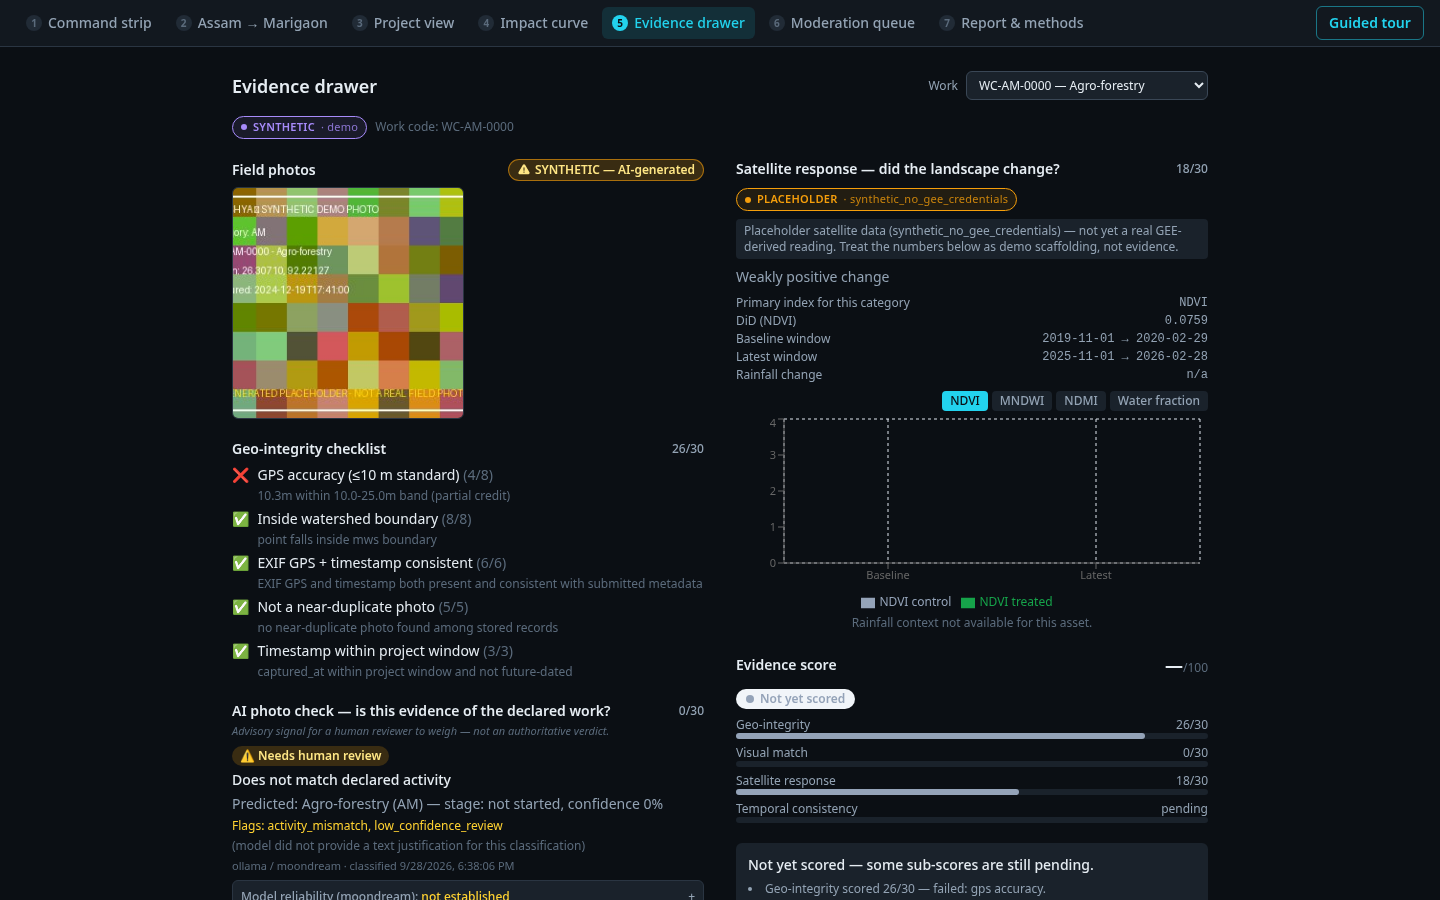
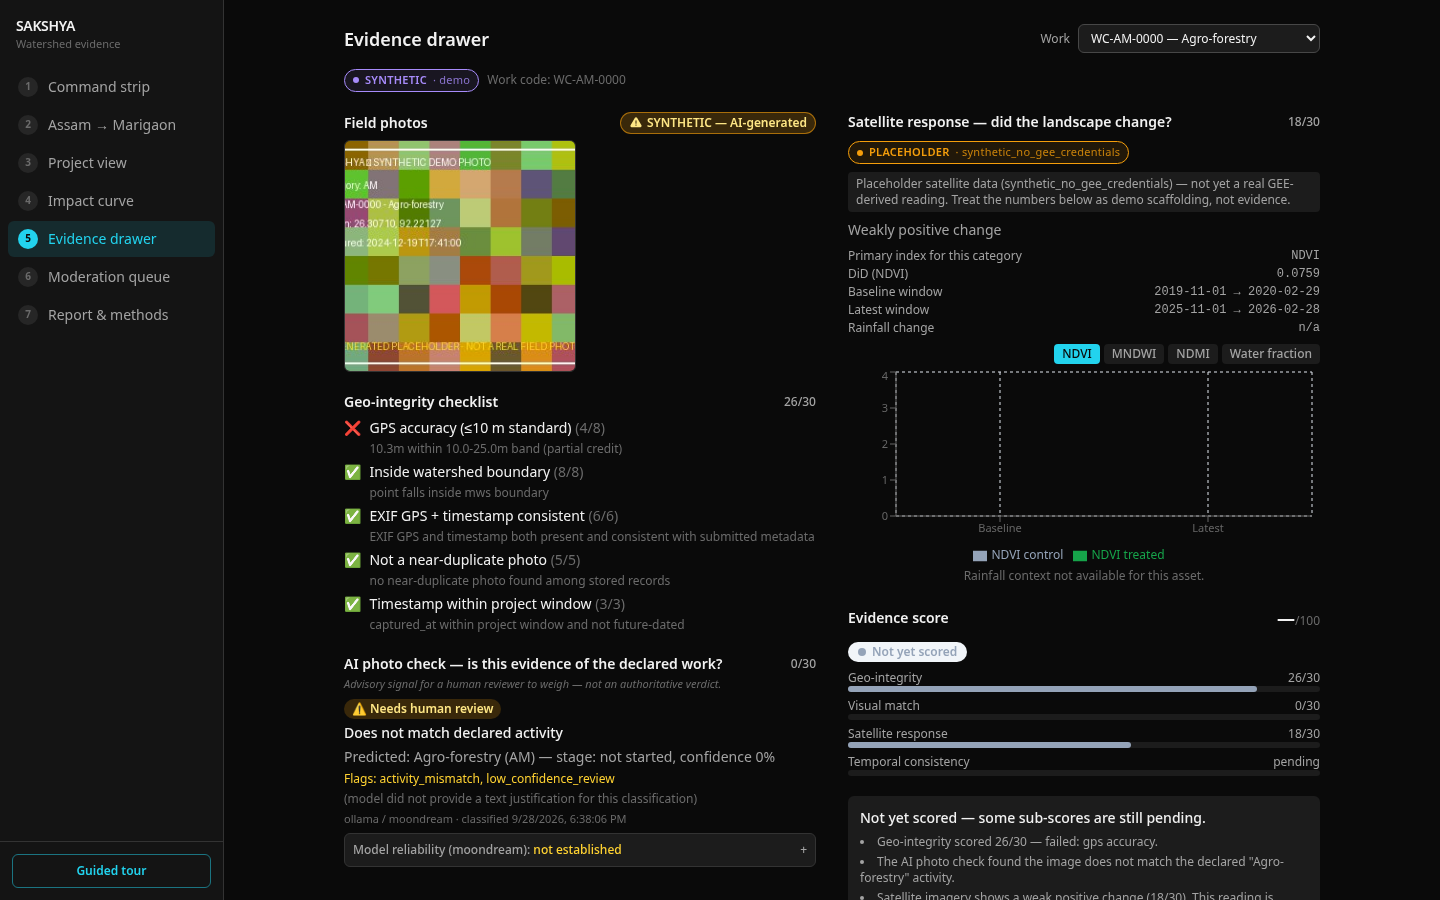
fix(web): neutral dark palette + left sidebar nav (was top strip)
Two more rounds of real human feedback, both verified against the actual
hex values rather than taken on faith:

1. Background/surface colour had an accidental blue lean at every step
   (--bg #0b0f14 = R11/G15/B20, B nearly double R; same pattern in
   --surface/-2/-3 and the text tokens) — flagged three times before being
   fixed here. Replaced the whole neutral scale in index.css with true
   greys (R=G=B at every step: --bg #0a0a0a through --border-strong
   #474747, --text #f2f2f2 through --text-faint #6b6b6b). The cyan accent
   is untouched and is now more clearly the one deliberate colour against
   genuinely neutral scaffolding, not competing with a second accidental
   hue. Grepped for hardcoded references to the old hex values first — all
   of them were only in this one token block, so a single edit fixes every
   component that reads var(--bg) etc.

2. Replaced the top horizontal BeatNav strip with a left rail sidebar
   (new Sidebar.tsx, Hotstar/Disney+-style: fixed 224px column, numbered
   items stacked vertically, current beat picked out with the accent).
   Fixed width rather than a hover-to-expand icon rail — beats 2/3 are
   full-bleed maps that need the horizontal space, and a fixed width is
   more reliable for an automated/demo screenshot than a hover state.
   Guided tour button moved to the bottom of the sidebar, pinned.
   App.tsx's root layout changed from flex-col (nav above, content below)
[…]

diff --git a/web/src/components/shell/Sidebar.tsx b/web/src/components/shell/Sidebar.tsx
@@ -1,0 +1,69 @@
+import { BEATS } from './beats'
+
+/**
+ * Left rail navigation, replacing the old top horizontal `BeatNav` strip —
+ * the human referenced the Hotstar/Disney+ pattern: a fixed-width column,
+ * items stacked vertically, current item picked out with the accent
+ * colour. Fixed at a narrow 224px rather than a wide rail or a
+ * hover-to-expand icon state — beats 2 and 3 are full-bleed maps that need
+ * the horizontal space, so the tradeoff is resolved in the map's favour: a
+ * width that comfortably fits "icon + label" on one line and nothing more.
+ */
+export function Sidebar({
+  active,
+  onSelect,
+  onStartTour,
+}: {
+  active: number
+  onSelect: (id: number) => void
+  onStartTour: () => void
+}) {
+  return (
+    <nav
+      aria-label="Dashboard beats"
+      className="no-print flex h-full w-56 shrink-0 flex-col border-r border-(--border) bg-(--surface)"
+    >
+      <div className="px-4 py-4">
+        <p className="text-sm font-semibold tracking-tight text-(--text)">SAKSHYA</p>
+        <p className="text-[11px] text-(--text-faint)">Watershed evidence</p>
+      </div>
+
+      <ol className="flex-1 space-y-0.5 overflow-y-auto px-2">
+        {BEATS.map((beat) => {
+          const isActive = active === beat.id
+          return (
+            <li key={beat.id}>
+              <button
+                type="button"
+                onClick={() => onSelect(beat.id)}
+                aria-current={isActive ? 'step' : undefined}
+                className={`flex w-full items-center gap-2.5 rounded-md px-2.5 py-2 text-left text-sm transition-colors ${
+                  isActive ? 'bg-(--accent-bg) text-(--accent)' : 'text-(--text-muted) hover:bg-(--surface-2) hover:text-(--text)'
+                }`}
+              >
+                <span
+                  className={`flex h-5 w-5 shrink-0 items-center justify-center rounded-full text-[10px] font-bold ${
+                    isActive ? 'bg-(--accent) text-(--bg)' : 'bg-(--surface-3) text-(--text-faint)'
+                  }`}
+                >
+                  {beat.id}
+                </span>
+                <span className="truncate">{beat.title}</span>
+              </button>
+            </li>
+          )
+        })}
+      </ol>
+
+      <div className="border-t border-(--border) p-3">
+        <button
+          type="button"
+          onClick={onStartTour}
+          className="flex w-full items-center justify-center gap-1.5 rounded-md border border-(--accent)/50 px-3 py-2 text-xs font-semibold text-(--accent) hover:bg-(--accent-bg)"
+        >
+          Guided tour
+        </button>
+      </div>
+    </nav>
+  )
+}

diff --git a/web/src/App.tsx b/web/src/App.tsx
@@ -8,8 +8,8 @@ import { DistrictChoropleth } from '@/components/choropleth/DistrictChoropleth'
 import { ErrorState } from '@/components/layout/ErrorState'
 import { LoadingState } from '@/components/layout/LoadingState'
 import { WatershedMap } from '@/components/map/WatershedMap'
-import { BeatNav } from '@/components/shell/BeatNav'
 import { GuidedTour } from '@/components/shell/GuidedTour'
+import { Sidebar } from '@/components/shell/Sidebar'
 import { CONFIGURED_MWS_ID } from '@/config'
 import { useMwsList } from '@/hooks/useMwsList'
 import { MapUiProvider } from '@/state/mapUiStore'
@@ -71,16 +71,18 @@ function App() {
   const isMapBeat = activeBeat === 2 || activeBeat === 3
 
   return (
-    <div className="flex h-screen flex-col bg-(--bg) text-(--text)">
-      <BeatNav active={activeBeat} onSelect={setActiveBeat} onStartTour={() => setTourOpen(true)} />
-      <main className={`min-h-0 flex-1 ${isMapBeat ? '' : 'overflow-y-auto'}`}>{body}</main>
-      {tourOpen && (
-        <GuidedTour
-          activeBeat={activeBeat}
-          onGoTo={(id) => setActiveBeat(id)}
-          onExit={() => setTourOpen(false)}
-        />
-      )}
+    <div className="flex h-screen bg-(--bg) text-(--text)">
+      <Sidebar active={activeBeat} onSelect={setActiveBeat} onStartTour={() => setTourOpen(true)} />
+      <div className="relative min-w-0 flex-1">
+        <main className={`h-full ${isMapBeat ? '' : 'overflow-y-auto'}`}>{body}</main>
+        {tourOpen && (
+          <GuidedTour
+            activeBeat={activeBeat}
+            onGoTo={(id) => setActiveBeat(id)}
+            onExit={() => setTourOpen(false)}
+          />
+        )}
+      </div>
     </div>
   )
 }

diff --git a/web/src/components/shell/GuidedTour.tsx b/web/src/components/shell/GuidedTour.tsx
@@ -7,6 +7,11 @@ import { BEATS } from './beats'
  * controls pacing during the 3-minute story; Esc/Skip exits and returns to
  * whichever beat the tour was on, cleanly closing the overlay without
  * leaving any tour-only state behind.
+ *
+ * `absolute`, not `fixed`: it's rendered inside App.tsx's `relative`
+ * main-content wrapper (next to, not overlapping, the sidebar) — since the
+ * sidebar restructure, `fixed inset-x-0` would have centred this across
+ * the *whole* viewport including the sidebar column.
  */
 export function GuidedTour({
   activeBeat,
@@ -38,7 +43,7 @@ export function GuidedTour({
       role="dialog"
       aria-label="Guided tour"
       aria-live="polite"
-      className="no-print fixed inset-x-0 bottom-4 z-50 mx-auto w-[calc(100%-2rem)] max-w-lg rounded-xl border border-(--accent)/40 bg-(--surface-2) p-4 shadow-2xl shadow-black/50"
+      className="no-print absolute inset-x-0 bottom-4 z-50 mx-auto w-[calc(100%-2rem)] max-w-lg rounded-xl border border-(--accent)/40 bg-(--surface-2) p-4 shadow-2xl shadow-black/50"
     >
       <div className="flex items-start justify-between gap-3">
         <div>

diff --git a/web/src/index.css b/web/src/index.css
@@ -10,16 +10,24 @@
 :root {
   color-scheme: dark;
 
-  --bg: #0b0f14;
-  --surface: #12181f;
-  --surface-2: #1a222b;
-  --surface-3: #212b36;
-  --border: #2a3542;
-  --border-strong: #3a4756;
+  /*
+   * Genuinely neutral dark scale — every step here is R=G=B (a true grey),
+   * not derived from a hue. The previous scale (#0b0f14 etc.) had B nearly
+   * double R at every step, an accidental blue lean nobody chose on
+   * purpose; flagged three times by the human before being fixed here.
+   * The cyan accent below stays the one deliberate colour — these are
+   * neutral scaffolding behind it, not a second competing hue.
+   */
+  --bg: #0a0a0a;
+  --surface: #141414;
+  --surface-2: #1c1c1c;
+  --surface-3: #262626;
+  --border: #333333;
+  --border-strong: #474747;
 
-  --text: #e6edf3;
-  --text-muted: #93a3b4;
-  --text-faint: #5b6b7c;
+  --text: #f2f2f2;
+  --text-muted: #a3a3a3;
+  --text-faint: #6b6b6b;
 
   /* The one accent colour, per REAL_DATA_PLAN.md §7's design brief. */
   --accent: #22d3ee;
